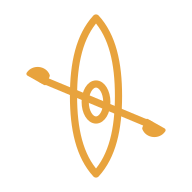
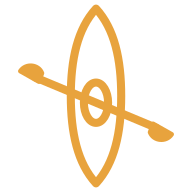
Icône kayak agrandie
Claude-Session: https://claude.ai/code/session_01NnnKUv556R5d6bXpKibHM3

Changed region(s): [[0.0938, 0.0, 0.9062, 1.0], [0.7812, 0.625, 0.8438, 0.6562], [0.1562, 0.4062, 0.2188, 0.4375]]

diff --git a/site/index.html b/site/index.html
@@ -38,7 +38,7 @@ button{font:inherit;color:inherit}
   background:var(--panel-solid);-webkit-backdrop-filter:blur(14px) saturate(1.2);backdrop-filter:blur(14px) saturate(1.2);transition:transform .22s ease;
   border-right:1px solid var(--panel-border);padding:14px 16px calc(14px + env(safe-area-inset-bottom));display:flex;flex-direction:column;gap:12px}
 .brand{display:flex;align-items:center;gap:10px}
-.brand img{width:28px;height:28px}
+.brand img{width:40px;height:40px;margin:-4px -2px -4px -6px}
 .brand h1{font-size:16px;font-weight:500;margin:0;letter-spacing:.02em;color:var(--accent)}
 .brand .maj{margin-left:auto;font-size:11.5px;color:var(--text-muted);font-variant-numeric:tabular-nums;text-align:right}
 .filters{display:flex;gap:6px;flex-wrap:wrap}

diff --git a/site/sw.js b/site/sw.js
@@ -1,5 +1,5 @@
 // Fichiers du site : réseau d'abord, copie en cache pour le hors-ligne. Tuiles et bibliothèques externes : non gérées.
-const C = 'kayak-v10';
+const C = 'kayak-v11';
 self.addEventListener('install', e => { self.skipWaiting(); e.waitUntil(caches.open(C).then(c => c.addAll(['./', 'index.html', 'manifest.webmanifest', 'icon.svg']))); });
 self.addEventListener('activate', e => e.waitUntil(caches.keys().then(k => Promise.all(k.filter(x => x !== C).map(x => caches.delete(x)))).then(() => self.clients.claim())));
 self.addEventListener('fetch', e => {
